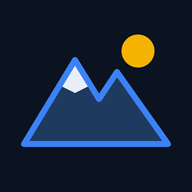
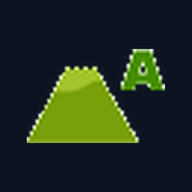
UI: アイコンを指数Aバッジに変更・麓の天気リンクを一覧の山名下へ移動・山名タップでテンクラ今日の天気へ直行

Changed region(s): [[0.0938, 0.1562, 0.9062, 0.7812]]

diff --git a/public/index.html b/public/index.html
@@ -53,8 +53,14 @@
   td.name{text-align:left;position:sticky;left:0;background:var(--bg);z-index:5;
     padding:7px 4px 7px 2px;border-right:1px solid var(--line);width:92px;max-width:92px}
   .mname{font-size:11px;font-weight:700;line-height:1.2;display:-webkit-box;
-    -webkit-line-clamp:2;-webkit-box-orient:vertical;overflow:hidden;max-width:88px}
+    -webkit-line-clamp:2;-webkit-box-orient:vertical;overflow:hidden;max-width:88px;
+    color:var(--fg);text-decoration:none}
+  a.mname{text-decoration:underline;text-decoration-color:rgba(147,197,253,.45);
+    text-decoration-thickness:1px;text-underline-offset:2px}
   .msub{font-size:9px;color:var(--muted);display:block;margin-top:1px}
+  .flink{display:block;margin-top:2px;font-size:9px;line-height:1.25;color:#93c5fd;
+    text-decoration:none;white-space:nowrap;width:max-content;
+    border-bottom:1px solid rgba(147,197,253,.5)}
   .cell{cursor:pointer}
   .badge{display:inline-flex;align-items:center;justify-content:center;width:27px;height:24px}
   .badge img{width:27px;height:auto;display:block}
@@ -219,6 +225,11 @@ mylist = initialList();
 save();
 
 const ICON = {A:'img/mnt1.gif', B:'img/mnt2.gif', C:'img/mnt3.gif'};
+// てんきとくらすの山ページ。「今日の天気」の表（気温行に id=temp-d）へ直行する
+const TENKURA_BASE = 'https://tenkura.n-kishou.co.jp/tk/kanko/kad.html';
+const tenkuraUrl = m => `${TENKURA_BASE}?code=${m.code}&type=15&ba=${m.ba||'hr'}#temp-d`;
+// 麓の市町村 → 気象庁の市町村予報（jma は class20s のエリアコード）
+const jmaUrl = m => `https://www.jma.go.jp/bosai/forecast/#area_type=class20s&area_code=${m.jma}`;
 function badge(idx){
   if(!idx || !ICON[idx]) return '<span class="badge bN">−</span>';
   return `<span class="badge"><img src="${ICON[idx]}" alt="${idx}指数" loading="lazy"></span>`;
@@ -276,12 +287,16 @@ function render(){
       return `<td class="cell" data-i="${mi}" data-date="${c}">${badge(d.index)}<span class="tmp">${t}</span></td>`;
     }).join('');
     const alt = m.altitude ? `${m.altitude}m` : '';
+    // 山名 → てんきとくらすの「今日の天気」へ直行（#temp-d は今日の表の気温行）
+    const fh = m.jma
+      ? `<a class="flink" href="${jmaUrl(m)}" target="_blank" rel="noopener"
+           title="気象庁 天気予報（麓の${m.municipality||'市町村'}）">麓の天気 ↗</a>` : '';
     return `<tr class="${m.error?'err':''}">
-      <td class="name"><span class="mname" data-i="${mi}">${m.name||m.code}</span><span class="msub">${alt}${m.error?' 取得失敗':''}</span></td>
+      <td class="name"><a class="mname" href="${tenkuraUrl(m)}" target="_blank" rel="noopener"
+        title="てんきとくらすで今日の天気を見る">${m.name||m.code}</a><span class="msub">${alt}${m.error?' 取得失敗':''}</span>${fh}</td>
       ${cells}</tr>`;
   }).join('');
 
-  document.querySelectorAll('.mname').forEach(el=>el.onclick=()=>openDetail(ms[+el.dataset.i]));
   document.querySelectorAll('.cell').forEach(el=>el.onclick=()=>openDetail(ms[+el.dataset.i]));
 }
 
@@ -289,15 +304,8 @@ function openDetail(m){
   if(!m) return;
   $('dTitle').textContent = m.name || m.code;
   const alt = m.altitude? `${m.altitude}m付近` : '';
-  // 麓の市町村 → 気象庁の市町村予報（watchlist.json の jma が class20s のエリアコード）
-  let foot = '';
-  if(m.municipality){
-    foot = m.jma
-      ? ` ／ 麓: ${m.municipality} <a class="lnk" target="_blank" rel="noopener"
-           href="https://www.jma.go.jp/bosai/forecast/#area_type=class20s&area_code=${m.jma}"
-           title="気象庁 天気予報（麓の市町村）">気象庁 ↗</a>`
-      : ` ／ 麓: ${m.municipality}`;
-  }
+  // 麓の市町村は名前だけ表示（麓の天気リンクは一覧の山名の下へ移動した）
+  const foot = m.municipality ? ` ／ 麓: ${m.municipality}` : '';
   let html = `<div class="dsub">${m.name||''}　${alt}${foot}</div>`;
   if(m.error){ html += `<div class="dday">データを取得できませんでした（${m.error}）</div>`; }
   (m.days||[]).forEach(d=>{
@@ -315,7 +323,7 @@ function openDetail(m){
     </div>`;
   });
   html += `<a class="link" target="_blank" rel="noopener"
-      href="https://tenkura.n-kishou.co.jp/tk/kanko/kad.html?code=${m.code}&type=15&ba=${m.ba||'hr'}">てんきとくらすで詳しく見る ↗</a>
+      href="${tenkuraUrl(m)}">てんきとくらすで今日の天気を見る ↗</a>
     <div class="delrow"><button class="del" data-del="${m.code}">この山をリストから削除</button></div>`;
   $('detail').innerHTML = html;
   $('detail').querySelector('[data-del]').onclick = ()=>{

diff --git a/web/index.html b/web/index.html
@@ -53,8 +53,14 @@
   td.name{text-align:left;position:sticky;left:0;background:var(--bg);z-index:5;
     padding:7px 4px 7px 2px;border-right:1px solid var(--line);width:92px;max-width:92px}
   .mname{font-size:11px;font-weight:700;line-height:1.2;display:-webkit-box;
-    -webkit-line-clamp:2;-webkit-box-orient:vertical;overflow:hidden;max-width:88px}
+    -webkit-line-clamp:2;-webkit-box-orient:vertical;overflow:hidden;max-width:88px;
+    color:var(--fg);text-decoration:none}
+  a.mname{text-decoration:underline;text-decoration-color:rgba(147,197,253,.45);
+    text-decoration-thickness:1px;text-underline-offset:2px}
   .msub{font-size:9px;color:var(--muted);display:block;margin-top:1px}
+  .flink{display:block;margin-top:2px;font-size:9px;line-height:1.25;color:#93c5fd;
+    text-decoration:none;white-space:nowrap;width:max-content;
+    border-bottom:1px solid rgba(147,197,253,.5)}
   .cell{cursor:pointer}
   .badge{display:inline-flex;align-items:center;justify-content:center;width:27px;height:24px}
   .badge img{width:27px;height:auto;display:block}
@@ -219,6 +225,11 @@ mylist = initialList();
 save();
 
 const ICON = {A:'img/mnt1.gif', B:'img/mnt2.gif', C:'img/mnt3.gif'};
+// てんきとくらすの山ページ。「今日の天気」の表（気温行に id=temp-d）へ直行する
+const TENKURA_BASE = 'https://tenkura.n-kishou.co.jp/tk/kanko/kad.html';
+const tenkuraUrl = m => `${TENKURA_BASE}?code=${m.code}&type=15&ba=${m.ba||'hr'}#temp-d`;
+// 麓の市町村 → 気象庁の市町村予報（jma は class20s のエリアコード）
+const jmaUrl = m => `https://www.jma.go.jp/bosai/forecast/#area_type=class20s&area_code=${m.jma}`;
 function badge(idx){
   if(!idx || !ICON[idx]) return '<span class="badge bN">−</span>';
   return `<span class="badge"><img src="${ICON[idx]}" alt="${idx}指数" loading="lazy"></span>`;
@@ -276,12 +287,16 @@ function render(){
       return `<td class="cell" data-i="${mi}" data-date="${c}">${badge(d.index)}<span class="tmp">${t}</span></td>`;
     }).join('');
     const alt = m.altitude ? `${m.altitude}m` : '';
+    // 山名 → てんきとくらすの「今日の天気」へ直行（#temp-d は今日の表の気温行）
+    const fh = m.jma
+      ? `<a class="flink" href="${jmaUrl(m)}" target="_blank" rel="noopener"
+           title="気象庁 天気予報（麓の${m.municipality||'市町村'}）">麓の天気 ↗</a>` : '';
     return `<tr class="${m.error?'err':''}">
-      <td class="name"><span class="mname" data-i="${mi}">${m.name||m.code}</span><span class="msub">${alt}${m.error?' 取得失敗':''}</span></td>
+      <td class="name"><a class="mname" href="${tenkuraUrl(m)}" target="_blank" rel="noopener"
+        title="てんきとくらすで今日の天気を見る">${m.name||m.code}</a><span class="msub">${alt}${m.error?' 取得失敗':''}</span>${fh}</td>
       ${cells}</tr>`;
   }).join('');
 
-  document.querySelectorAll('.mname').forEach(el=>el.onclick=()=>openDetail(ms[+el.dataset.i]));
   document.querySelectorAll('.cell').forEach(el=>el.onclick=()=>openDetail(ms[+el.dataset.i]));
 }
 
@@ -289,15 +304,8 @@ function openDetail(m){
   if(!m) return;
   $('dTitle').textContent = m.name || m.code;
   const alt = m.altitude? `${m.altitude}m付近` : '';
-  // 麓の市町村 → 気象庁の市町村予報（watchlist.json の jma が class20s のエリアコード）
-  let foot = '';
-  if(m.municipality){
-    foot = m.jma
-      ? ` ／ 麓: ${m.municipality} <a class="lnk" target="_blank" rel="noopener"
-           href="https://www.jma.go.jp/bosai/forecast/#area_type=class20s&area_code=${m.jma}"
-           title="気象庁 天気予報（麓の市町村）">気象庁 ↗</a>`
-      : ` ／ 麓: ${m.municipality}`;
-  }
+  // 麓の市町村は名前だけ表示（麓の天気リンクは一覧の山名の下へ移動した）
+  const foot = m.municipality ? ` ／ 麓: ${m.municipality}` : '';
   let html = `<div class="dsub">${m.name||''}　${alt}${foot}</div>`;
   if(m.error){ html += `<div class="dday">データを取得できませんでした（${m.error}）</div>`; }
   (m.days||[]).forEach(d=>{
@@ -315,7 +323,7 @@ function openDetail(m){
     </div>`;
   });
   html += `<a class="link" target="_blank" rel="noopener"
-      href="https://tenkura.n-kishou.co.jp/tk/kanko/kad.html?code=${m.code}&type=15&ba=${m.ba||'hr'}">てんきとくらすで詳しく見る ↗</a>
+      href="${tenkuraUrl(m)}">てんきとくらすで今日の天気を見る ↗</a>
     <div class="delrow"><button class="del" data-del="${m.code}">この山をリストから削除</button></div>`;
   $('detail').innerHTML = html;
   $('detail').querySelector('[data-del]').onclick = ()=>{

diff --git a/public/sw.js b/public/sw.js
@@ -1,7 +1,9 @@
 // 山の天気まとめ - service worker
 // 方針: アプリ本体はキャッシュ優先、data.json はネットワーク優先（失敗時はキャッシュ）
-const CACHE = 'tenkura-v3';  // 画面を更新したら必ず上げる（キャッシュ優先のため）
-const SHELL = ['./', './index.html', './icon.svg', './manifest.webmanifest', './img/mnt1.gif', './img/mnt2.gif', './img/mnt3.gif'];
+const CACHE = 'tenkura-v4';  // 画面を更新したら必ず上げる（キャッシュ優先のため）
+const SHELL = ['./', './index.html', './manifest.webmanifest',
+  './icon-192.png', './icon-512.png', './icon-maskable-512.png', './apple-touch-icon.png',
+  './img/mnt1.gif', './img/mnt2.gif', './img/mnt3.gif'];
 
 self.addEventListener('install', e => {
   e.waitUntil(caches.open(CACHE).then(c => c.addAll(SHELL)).then(() => self.skipWaiting()));

diff --git a/web/sw.js b/web/sw.js
@@ -1,7 +1,9 @@
 // 山の天気まとめ - service worker
 // 方針: アプリ本体はキャッシュ優先、data.json はネットワーク優先（失敗時はキャッシュ）
-const CACHE = 'tenkura-v3';  // 画面を更新したら必ず上げる（キャッシュ優先のため）
-const SHELL = ['./', './index.html', './icon.svg', './manifest.webmanifest', './img/mnt1.gif', './img/mnt2.gif', './img/mnt3.gif'];
+const CACHE = 'tenkura-v4';  // 画面を更新したら必ず上げる（キャッシュ優先のため）
+const SHELL = ['./', './index.html', './manifest.webmanifest',
+  './icon-192.png', './icon-512.png', './icon-maskable-512.png', './apple-touch-icon.png',
+  './img/mnt1.gif', './img/mnt2.gif', './img/mnt3.gif'];
 
 self.addEventListener('install', e => {
   e.waitUntil(caches.open(CACHE).then(c => c.addAll(SHELL)).then(() => self.skipWaiting()));

diff --git a/make_icons.py b/make_icons.py
@@ -1,0 +1,86 @@
+# -*- coding: utf-8 -*-
+"""アプリアイコン生成 — 登山指数「A」バッジ（img/mnt1.gif）をそのまま使う
+
+web/img/mnt1.gif（50x36・白背景の緑の山＋A）を高解像度化して、
+アプリのテーマ色 #0b1220 の上に配置した PNG を作る。
+
+    python make_icons.py
+
+出力: web/icon-192.png, web/icon-512.png, web/icon-maskable-512.png,
+      web/apple-touch-icon.png
+
+Pillow だけで動く（numpy 不要）。
+"""
+import os
+
+from PIL import Image, ImageDraw
+
+HERE = os.path.dirname(os.path.abspath(__file__))
+WEB = os.path.join(HERE, "web")
+SRC = os.path.join(WEB, "img", "mnt1.gif")
+BG = (11, 18, 32)          # --bg (#0b1220) アプリのテーマ色
+BLEED = (110, 155, 8)      # 透過部分ににじませる色（山の緑。白フチ防止）
+SS = 4                     # スーパーサンプリング倍率（角丸・輪郭を滑らかに）
+RESAMPLE = Image.Resampling.LANCZOS
+
+
+def badge_rgba():
+    """白背景を透過にしたバッジ画像（原寸）を返す"""
+    im = Image.open(SRC).convert("RGB")
+    w, h = im.size
+    src = im.load()
+    out = Image.new("RGBA", (w, h), (0, 0, 0, 0))
+    dst = out.load()
+    for y in range(h):
+        for x in range(w):
+            r, g, b = src[x, y]
+            if min(r, g, b) >= 240:          # 白＝背景 → 透明（緑をにじませる）
+                dst[x, y] = BLEED + (0,)
+            else:
+                dst[x, y] = (r, g, b, 255)
+    return out.crop(out.split()[3].getbbox())
+
+
+BADGE = badge_rgba()
+
+
+def compose(size, fill=0.72, radius=0.22):
+    """size角のアイコンを作る。fill=バッジが占める割合, radius=角丸の比率"""
+    S = size * SS
+    base = Image.new("RGB", (S, S), BG)
+
+    mask = Image.new("L", (S, S), 255)
+    if radius:
+        mask = Image.new("L", (S, S), 0)
+        ImageDraw.Draw(mask).rounded_rectangle(
+            [0, 0, S - 1, S - 1], radius=int(S * radius), fill=255)
+
+    bw, bh = BADGE.size
+    k = min(S * fill / bw, S * fill / bh)
+    badge = BADGE.resize((max(1, round(bw * k)), max(1, round(bh * k))), RESAMPLE)
+
+    base.paste(badge, ((S - badge.width) // 2, (S - badge.height) // 2), badge)
+
+    out = Image.new("RGB", (S, S), BG)
+    out.paste(base, (0, 0), mask)
+    return out.resize((size, size), RESAMPLE)
+
+
+def main():
+    jobs = [
+        ("icon-192.png", 192, 0.72, 0.22),
+        ("icon-512.png", 512, 0.72, 0.22),
+        # maskable: 角丸なし・セーフゾーン（中央80%の円）に収まる大きさ
+        ("icon-maskable-512.png", 512, 0.62, 0),
+        # iOS はOS側で角丸に切るので全面塗り
+        ("apple-touch-icon.png", 180, 0.68, 0),
+    ]
+    for name, size, fill, radius in jobs:
+        out = compose(size, fill=fill, radius=radius)
+        path = os.path.join(WEB, name)
+        out.save(path, optimize=True)
+        print(f"wrote {path} ({size}x{size})")
+
+
+if __name__ == "__main__":
+    main()

diff --git a/AGENTS.md b/AGENTS.md
@@ -24,7 +24,8 @@ web/                     画面のソース（編集するのはここ）
   index.html             本体（CSS/JS込み・1ファイル）
   manifest.webmanifest   PWA定義（アイコン192/512 PNG必須）
   sw.js                  Service Worker（data.jsonはネットワーク優先）
-  icon-192.png / icon-512.png / apple-touch-icon.png
+  icon-192.png / icon-512.png / icon-maskable-512.png / apple-touch-icon.png
+                         （make_icons.py で生成。素材は img/mnt1.gif＝指数Aのバッジ）
 build.py                 watchlist.json の山を取得 → public/data.json、web/ を public/ へコピー
 tenkura.py               てんきとくらすの取得・解析（標準ライブラリのみ・pip不要）
 watchlist.json           表示する山のリスト（名前 / code / ba / region）
@@ -91,6 +92,8 @@ git fetch origin && git reset --soft origin/main && git commit -m "変更内容"
   `https://tenkura.n-kishou.co.jp/tk/kanko/kad.html?code=16150013&type=15&ba=hr`
   `ba`: hk北海道 / th東北 / hr北陸 / kk関東・甲信 / tk東海 / kn近畿 / cg中国 / sk四国 / ks九州・沖縄
 - **時刻は必ずJSTオフセット付き**（`+09:00`）。ActionsはUTCなので naive な文字列にするとブラウザ側で9時間ずれる
+- **山名タップは「てんきとくらすの今日の天気」へ直行**。`kad.html?...&type=15&ba=..#temp-d` の `#temp-d`（今日の表の気温行のid）でスクロールさせる。ページ内に「今日の天気」見出しのアンカーが無いため。テキストフラグメント（`#:~:text=`）は環境によって効かないので使わない。アプリ内の詳細シートは指数セルのタップから開く
+- **麓の天気（気象庁）リンクは一覧の山名の下**（詳細シートから移動した）。`jma` が無い山はリンクを出さない
 - **`jma` は気象庁の市町村予報エリアコード**（class20s）。`watchlist.json` に手で持たせ、`build.py` が data.json へ素通しする。詳細画面の「麓: ○○町 気象庁 ↗」はこれで `https://www.jma.go.jp/bosai/forecast/#area_type=class20s&area_code=<jma>` を開く。山の麓名（municipality）から引くときは `https://www.jma.go.jp/bosai/common/const/area.json` の `class20s` を名前一致で検索
 - **取得失敗時は前回データを引き継ぐ**（`stale: true`）。全山失敗なら data.json を更新せず exit 1
 - **アセットはすべて相対パス**。Pagesはサブパス（`/tenkura-list/`）配信なので `/icon.png` は404になる（凡例アイコンを `/img/mnt1.gif` と書いて404にした実例あり。表内は `img/mnt1.gif` で正しかった）
@@ -115,4 +118,5 @@ git fetch origin && git reset --soft origin/main && git commit -m "変更内容"
 ## 履歴
 
 - 2026-10-26: ローカル版（PC内サーバー）から GitHub Pages + Actions + PWA へ移行して公開。8山・1日5回更新で稼働中
+- 2026-10-28: ①アプリアイコンを指数Aのバッジ（緑の山＋A）に変更（make_icons.py 新設・maskable用PNG追加・icon.svg廃止）②麓の天気（気象庁）リンクを詳細シートから一覧の山名の下へ移動 ③山名タップでてんきとくらすの「今日の天気」へ直行（#temp-d）
 - 2026-10-26: ①凡例アイコンの404修正（絶対パス→相対パス）②雨雲レーダーを大きなボタンに ③windy（風・積雪）リンクを隣に追加 ④詳細画面の麓の横に気象庁リンク（jma コード導入）
